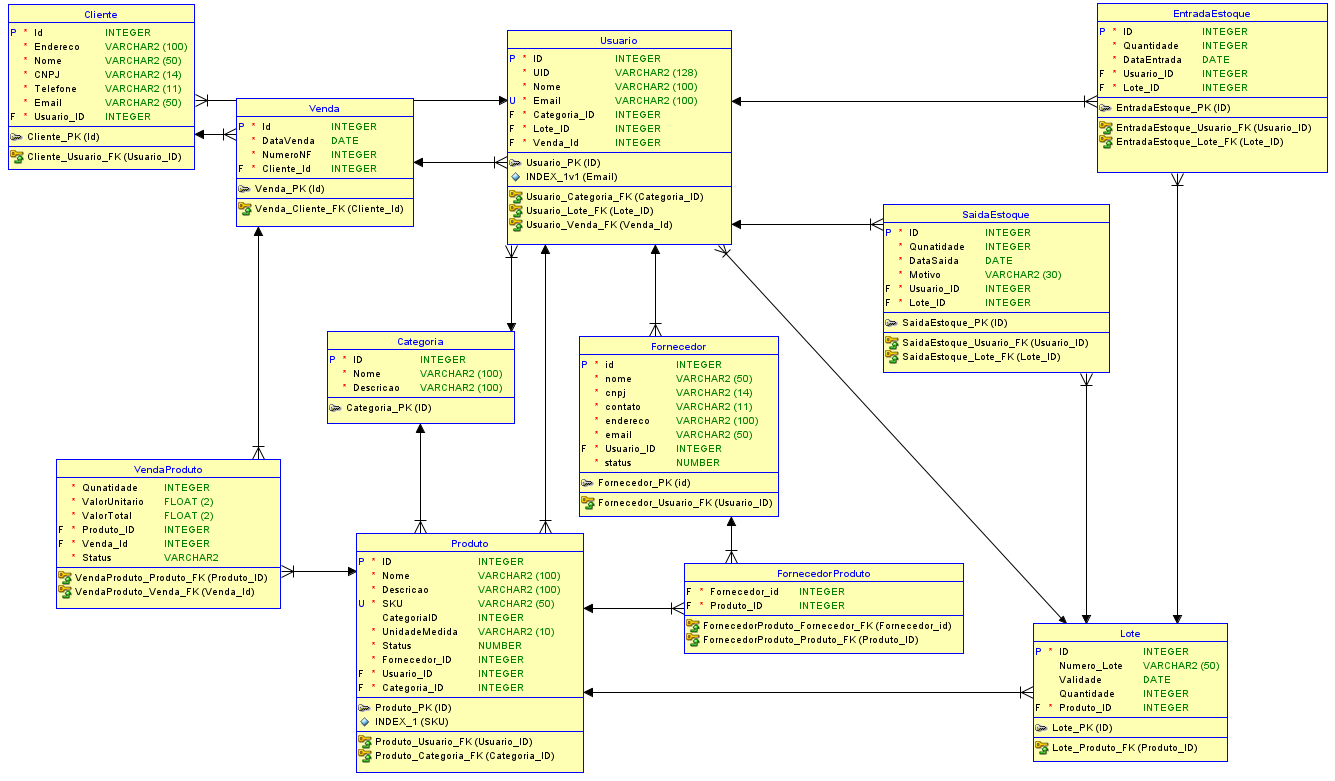
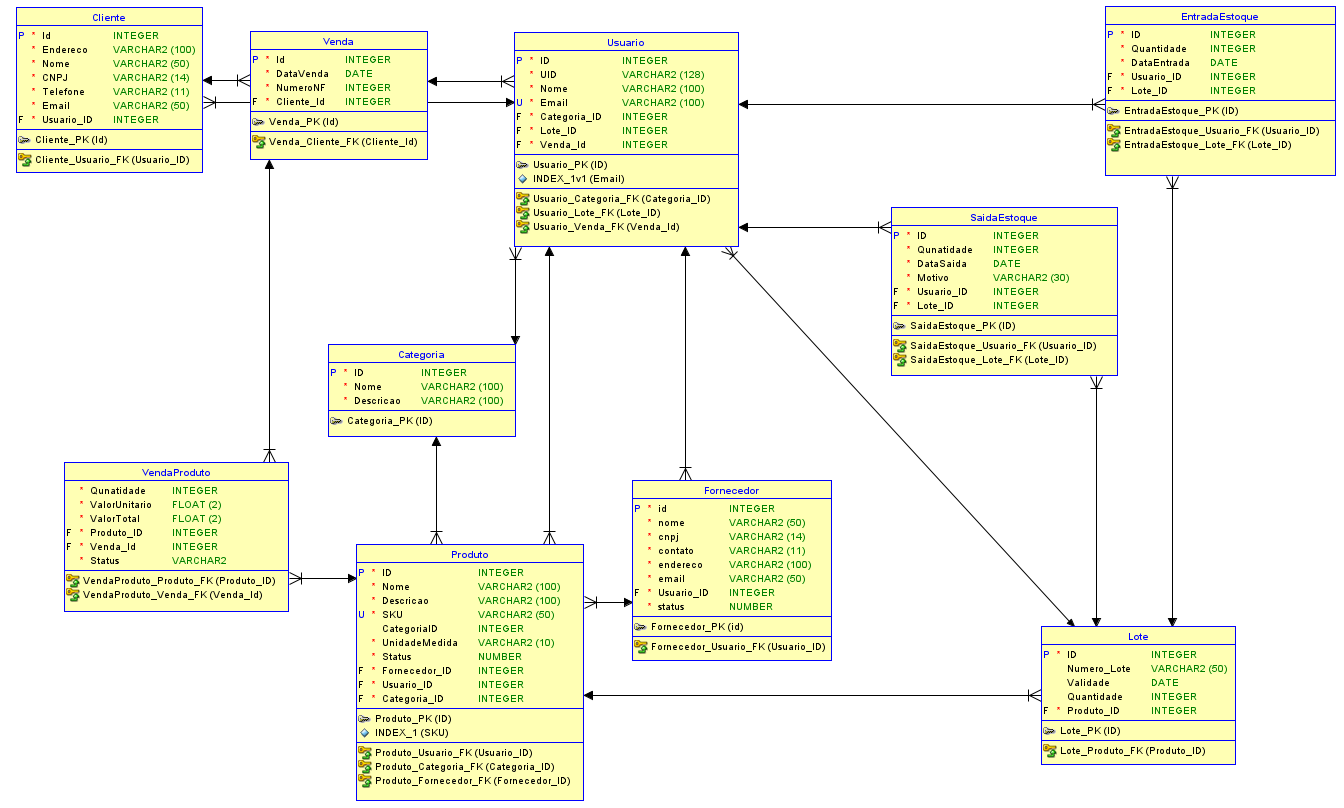
Atualizando as modelagens

diff --git a/backend/models/models.py b/backend/models/models.py
@@ -146,14 +146,6 @@ class Venda(Base):
     # 🔹 Composição: Venda → VendaProduto (itens só existem com Venda)
     itens = relationship("VendaProduto", back_populates="venda", cascade="all, delete-orphan")
 
-t_fornecedorproduto = Table(
-    'fornecedorproduto', Base.metadata,
-    Column('fornecedor_id', Integer, nullable=False),
-    Column('produto_id', Integer, nullable=False),
-    ForeignKeyConstraint(['fornecedor_id'], ['fornecedor.id'], name='fornecedorproduto_fornecedor_fk'),
-    ForeignKeyConstraint(['produto_id'], ['produto.id'], name='fornecedorproduto_produto_fk')
-)
-
 class Lote(Base):
     __tablename__ = 'lote'
     __table_args__ = (

diff --git a/backend/models/__init__.py b/backend/models/__init__.py
@@ -9,6 +9,5 @@ from models.models import (
     Lote, 
     Entradaestoque,
     Saidaestoque,
-    t_fornecedorproduto,
     t_vendaproduto,
 )
